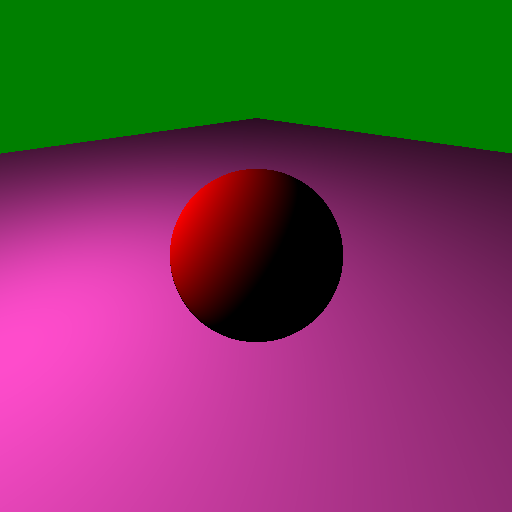
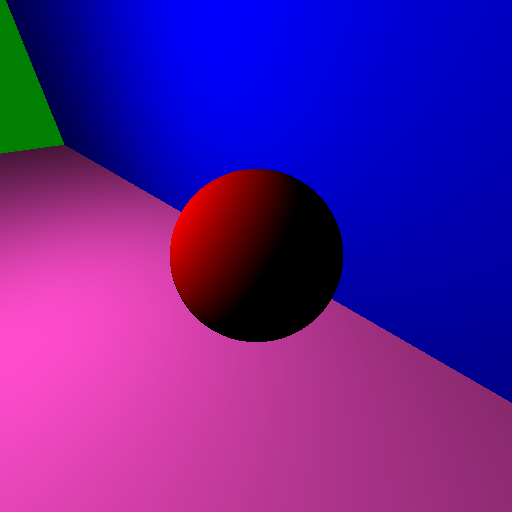
在点光源的测试中添加Polygon渲染。

diff --git a/ForCommonClasses/ForCommonClasses.cpp b/ForCommonClasses/ForCommonClasses.cpp
@@ -1366,9 +1366,23 @@ TEST_MODULE_START
 			vector3(+borderLength, -2.0f, -borderLength));
         tri2->m_kDiffuse = tri1->m_kDiffuse = RGB(1.0f, 0.3f, 0.8f);
 
+        /*!
+            \brief render polygon
+        */
+        auto poly = std::make_unique<Polygon>(
+            vector3(-borderLength, -borderLength, -2.0f),
+            vector3(-borderLength, borderLength, -2.0f),
+            vector3(+borderLength, borderLength, -2.0f)
+            );
+        poly->AddPoint(vector3(borderLength * 0.9f, -borderLength * 3.0f, -2.0f));
+        poly->AddPoint(vector3(borderLength * 0.1f, -borderLength * 4.0f, -2.0f));
+        poly->m_kDiffuse = RGB::BLUE;
+
+
         scene.Add(std::move(tsph));
         scene.Add(std::move(tri1));
         scene.Add(std::move(tri2));
+        scene.Add(std::move(poly));
 
         /*!
             \brief a dummy global diffuse color.
